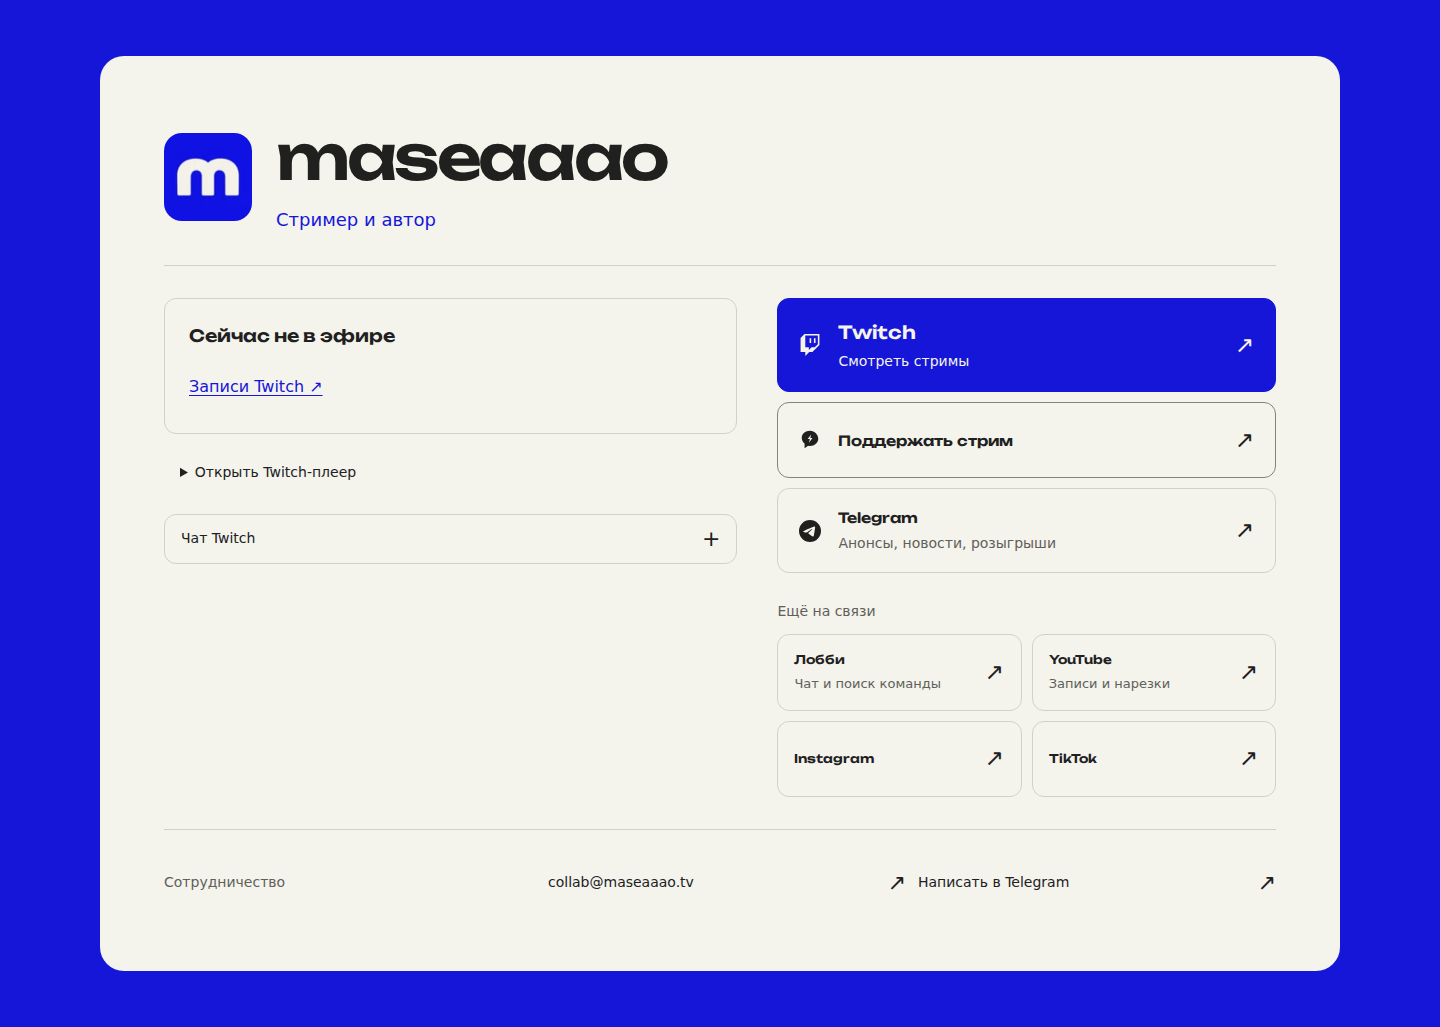
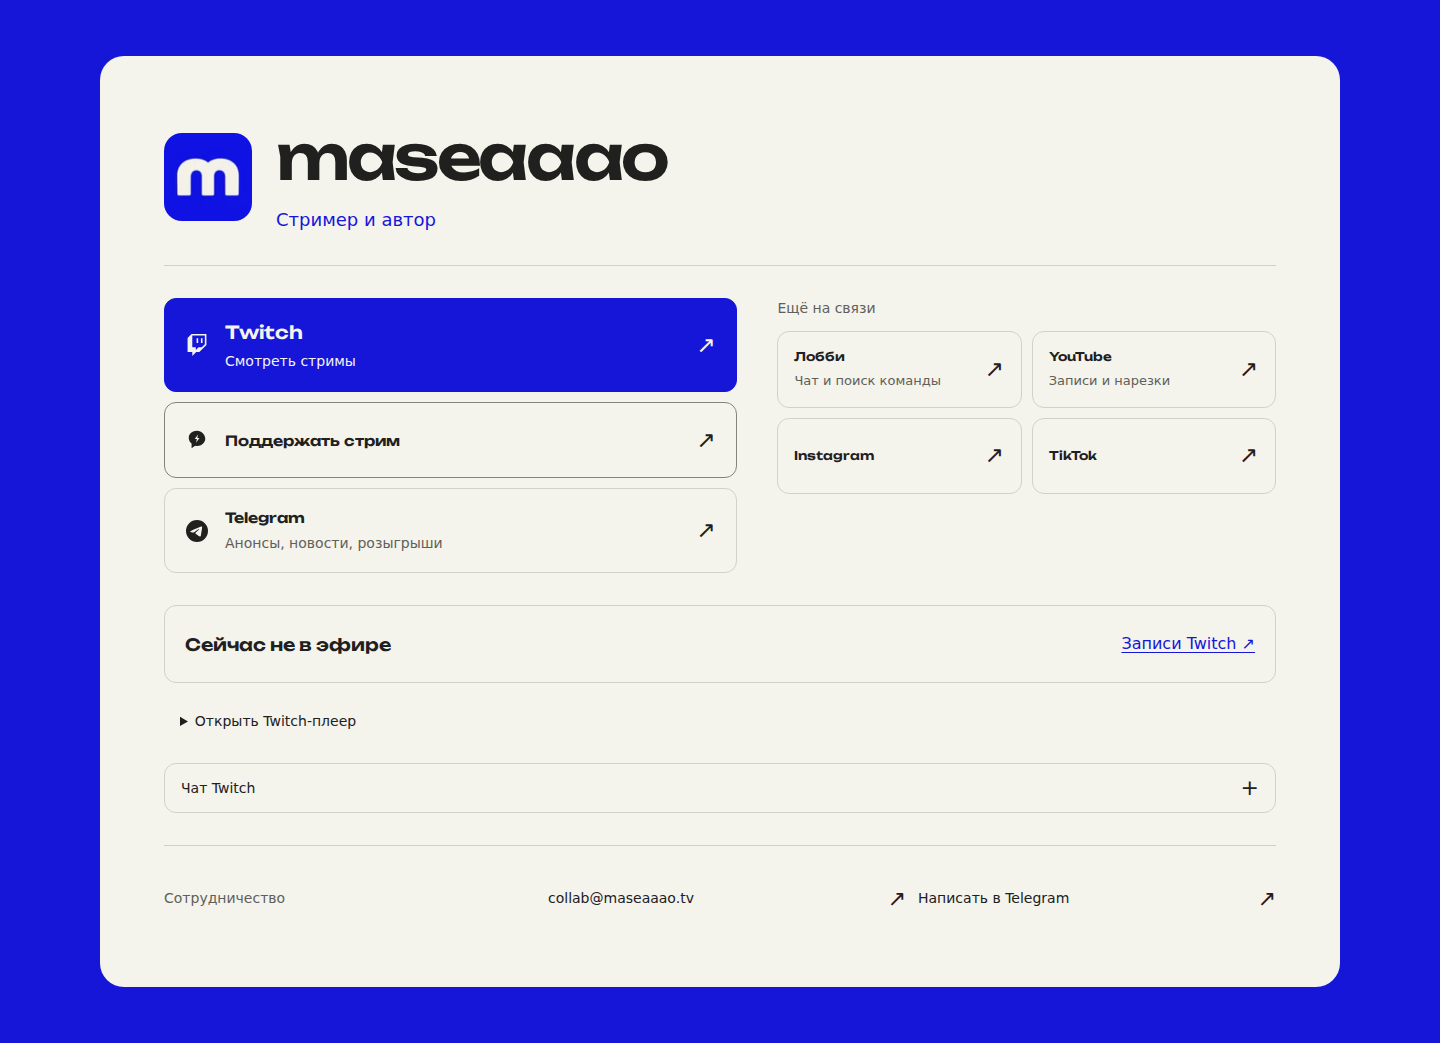
fix: complete layout review and restore browser coverage

diff --git a/dist/assets/site.css b/dist/assets/site.css
@@ -6,18 +6,19 @@ a, button, summary { touch-action: manipulation; }
 a { color: var(--accent); text-underline-offset: .2em; }
 a:focus-visible, button:focus-visible, summary:focus-visible, [tabindex="-1"]:focus-visible { outline: 3px solid var(--accent); outline-offset: 4px; }
 .page { min-height: 100svh; padding: 56px 32px; display: grid; place-items: center; }
-.shell { width: min(1240px, 100%); min-width: 0; padding: clamp(24px, 4.5vw, 64px); border-radius: 24px; background: var(--surface); display: grid; grid-template-columns: minmax(0, 1.15fr) minmax(0, 1fr); grid-template-areas: "identity identity" "stream actions" "collab collab"; gap: 32px 40px; align-items: start; }
+.shell { width: min(1240px, 100%); min-width: 0; padding: clamp(24px, 4.5vw, 64px); border-radius: 24px; background: var(--surface); display: grid; grid-template-columns: minmax(0, 1fr); grid-template-areas: "identity" "actions" "stream" "collab"; gap: 32px 40px; align-items: start; }
 .identity { grid-area: identity; padding-bottom: 32px; border-bottom: 1px solid var(--line); }
 .identity__top { display: flex; align-items: center; gap: 24px; }
-.avatar-shell { flex: none; }
+.avatar-shell { position: relative; flex: none; }
 .avatar-frame { width: 88px; height: 88px; border-radius: 18px; background: #111113; overflow: hidden; }
 .avatar, .avatar-fallback { display: block; width: 100%; height: 100%; object-fit: cover; }
 .avatar-fallback { display: grid; place-items: center; color: var(--surface); font: 600 40px var(--font-display); }
 .identity__copy { min-width: 0; }
 .identity h1 { margin: 0; font-size: clamp(30px, 4.7vw, 62px); line-height: 1.2; letter-spacing: -.055em; overflow-wrap: anywhere; }
 .identity__description { margin: 12px 0 0; color: var(--accent); font-size: 18px; }
+.profile-meta { position: absolute; bottom: -8px; left: 50%; transform: translateX(-50%); }
 .profile-meta:has([hidden]), .profile-meta:empty { display: none; }
-.live-badge { display: inline-flex; align-items: center; gap: 8px; margin-bottom: 12px; color: var(--hud-success); font: 600 11px var(--font-display); }
+.live-badge { display: inline-flex; align-items: center; gap: 5px; padding: 3px 6px; border: 1px solid var(--hud-success); border-radius: 6px; color: var(--hud-success); background: var(--surface); font: 600 11px/1.5 var(--font-display); }
 .live-badge__dot { width: 7px; height: 7px; border-radius: 50%; background: currentColor; }
 .stream-layout, .stream-content { display: grid; min-width: 0; gap: 16px; }
 .stream-content { container-type: inline-size; container-name: twitch-content; }
@@ -34,16 +35,17 @@ a:focus-visible, button:focus-visible, summary:focus-visible, [tabindex="-1"]:fo
 .stream-chat summary:focus-visible { outline-offset: -4px; }
 .stream-chat iframe { display: block; width: 100%; height: 420px; border: 0; }
 .stream-chat iframe:not([src]) { display: none; }
-.stream-offline { padding: 24px; border: 1px solid var(--line); border-radius: 12px; }
+.stream-offline { display: flex; flex-wrap: wrap; align-items: center; justify-content: space-between; gap: 8px 24px; padding: 16px 20px; border: 1px solid var(--line); border-radius: 12px; }
 .stream-offline__title { margin: 0; font: 600 17px/1.5 var(--font-display); }
-.stream-offline__links { display: flex; margin-top: 16px; }
+.stream-offline__links { display: flex; margin: 0; }
 .stream-offline a { display: inline-flex; min-height: 44px; align-items: center; }
 .stream-mobile { display: none; }
 .stream-fallback { margin: 0; color: var(--dim); font-size: 14px; }
 .stream-chat .stream-fallback { padding: 8px 16px 16px; }
 .stream-fallback a { display: inline-flex; align-items: center; min-height: 44px; }
-.stream-layout { grid-area: stream; }
-.actions { grid-area: actions; display: grid; min-width: 0; gap: 28px; }
+.stream-layout { grid-area: stream; grid-template-columns: minmax(0, 1.15fr) minmax(0, 1fr); align-items: start; }
+.stream-layout:is([data-state="offline"], [data-state="error"]) { grid-template-columns: minmax(0, 1fr); }
+.actions { grid-area: actions; display: grid; grid-template-columns: minmax(0, 1.15fr) minmax(0, 1fr); min-width: 0; gap: 28px 40px; align-items: start; }
 .section { min-width: 0; display: grid; gap: 12px; }
 .section-label, .collab__label { margin: 0; color: var(--dim); font: 14px/1.5 var(--font-body); }
 .tiles { display: grid; gap: 10px; }
@@ -93,7 +95,7 @@ a:focus-visible, button:focus-visible, summary:focus-visible, [tabindex="-1"]:fo
 .checker iframe { width: 100%; aspect-ratio: 16 / 9; display: block; border: 0; background: #20201e; }
 .checker.is-tv-mode { height: 100dvh; min-height: 0; padding: 8px; overflow: hidden; }
 .checker.is-tv-mode header, .checker.is-tv-mode .note { display: none; }
-.checker.is-tv-mode .grid { height: calc(100dvh - 16px); grid-template-columns: repeat(2, minmax(0, 1fr)); grid-template-rows: minmax(0, 1.12fr) minmax(0, .88fr); gap: 8px; }
+.checker.is-tv-mode .grid { height: calc(100dvh - 16px); grid-template-columns: minmax(0, 1fr); grid-template-rows: repeat(2, minmax(0, 1fr)); gap: 8px; }
 .checker.is-tv-mode .card { min-height: 0; display: grid; grid-template-rows: auto minmax(0, 1fr); }
 .checker.is-tv-mode .card[data-platform="youtube"] { grid-column: 1 / -1; }
 .checker.is-tv-mode .card-header { padding: 6px 8px; }
@@ -115,10 +117,8 @@ a:focus-visible, button:focus-visible, summary:focus-visible, [tabindex="-1"]:fo
 .skip-links a { position: fixed; top: 12px; left: 12px; z-index: 10; transform: translateY(-200%); padding: 12px 16px; border: 2px solid var(--accent); border-radius: 8px; background: var(--surface); }
 .skip-links a:focus { transform: none; }
 #platform-links, #contacts { scroll-margin-top: 24px; }
-@media (max-width: 1000px) { .shell { gap: 28px; padding: 32px; grid-template-columns: minmax(0, 1fr) minmax(0, 1fr); } .collab { grid-template-columns: 1fr; gap: 8px; } }
-@media (max-width: 1000px) { .page { padding: 24px 16px; } .shell { grid-template-columns: 1fr; grid-template-areas: "identity" "actions" "stream" "collab"; } .identity, .collab { grid-column: auto; } .identity { padding-bottom: 24px; } .tiles--primary { grid-template-columns: repeat(2, minmax(0, 1fr)); } .tile--wide { grid-column: 1 / -1; } .tiles--primary .tile { padding: 16px; gap: 12px; } }
+@media (max-width: 1000px) { .page { padding: 24px 16px; } .shell { gap: 28px; padding: 32px; } .actions, .stream-layout { grid-template-columns: minmax(0, 1fr); } .collab { grid-template-columns: 1fr; gap: 8px; } .identity { padding-bottom: 24px; } .tiles--primary { grid-template-columns: repeat(2, minmax(0, 1fr)); } .tile--wide { grid-column: 1 / -1; } .tiles--primary .tile { padding: 16px; gap: 12px; } }
 @media (max-width: 540px) { .page { padding: 12px; } .shell { padding: 24px 20px; border-radius: 18px; gap: 24px; } .identity__top { gap: 16px; } .avatar-frame { width: 56px; height: 56px; border-radius: 12px; } .identity h1 { font-size: clamp(23px, 6.6vw, 34px); letter-spacing: -.06em; } .identity__description { margin-top: 8px; font-size: 15px; } .tiles--primary { grid-template-columns: 1fr; } .tile--wide { grid-column: auto; } .tile { min-height: 72px; padding: 16px; } .tile__title { font-size: 13px; } .collab__links { grid-template-columns: 1fr; gap: 0; } .checker { padding: 20px 12px; } .checker .card-header { padding: 16px; } .docs { padding: 28px 20px; } }
-@media (max-width: 900px) { .checker.is-tv-mode .grid { grid-template-columns: 1fr; grid-template-rows: repeat(3, minmax(0, 1fr)); } .checker.is-tv-mode .card[data-platform="youtube"] { grid-column: auto; } }
 @container twitch-content (width < 402px) { .stream-player { display: none; } .stream-mobile { display: block; } .stream-content > .stream-fallback { display: none; } }
 @media (prefers-reduced-motion: reduce) { *, *::before, *::after { transition: none !important; animation: none !important; scroll-behavior: auto !important; } .tile:active { transform: none; } }
 @media (forced-colors: active) { .tile, .collab__link, .stream-chat { border: 1px solid ButtonText; } a:focus-visible, summary:focus-visible { outline-color: Highlight; } }

diff --git a/dist/index.html b/dist/index.html
@@ -115,16 +115,15 @@
                   " />
                 <div class="avatar-fallback" hidden aria-hidden="true">m</div>
               </div>
-            </div>
-
-            <div class="identity__copy">
               <div class="profile-meta">
                 <span class="live-badge" title="Сейчас в эфире" data-live-badge hidden>
                   <span class="live-badge__dot" aria-hidden="true"></span>
                   LIVE
                 </span>
               </div>
+            </div>
 
+            <div class="identity__copy">
               <h1 id="profile-name">maseaaao</h1>
               <p class="identity__description">Стример и автор</p>
             </div>

diff --git a/docs/screenshots/README.md b/docs/screenshots/README.md
@@ -1,5 +1,27 @@
 # Interface previews
 
-Captured at 1440 px and 390 px in Chromium, with reduced motion.
-Twitch networking is isolated: these are UI previews, not evidence of a live broadcast.
-The avatar is intentionally unchanged pending a separate owner selection.
+Captured from the current source with Chromium 153 at 1440 px (desktop) and
+390 px (mobile), with reduced motion and the current blue m avatar.
+
+- `landing-desktop.png`: isolated offline state, chat manually collapsed.
+- `landing-mobile.png`: cold narrow-page load; the embedded player is deliberately
+  replaced by the existing external Twitch action below the minimum player width.
+
+Twitch SDK and iframe networking are isolated. These are interface previews,
+not evidence of an actual live broadcast or a working external media connection.
+
+Run all site/OBS checks with `npm test`. Set `CHROME_BIN` or `CHROME_PATH` to an
+installed Chromium executable, or install the browser expected by Playwright.
+The suite includes Checker actions/TV layout, docs/check responsive and enlarged
+text checks, banner/panel clipping, landing states/keyboard/contrast and OBS
+transparency/geometry/QR/pixel parity.
+
+To capture the landing matrix in a new directory, run:
+
+```sh
+CHROME_BIN=/path/to/chromium LANDING_AUDIT_OUT=/new/evidence-directory node --test --test-name-pattern='capture real Chromium' tests/landing-sync.test.mjs
+```
+
+The desktop preview comes from `offline-desktop-chat-closed.png`; the mobile
+preview comes from `cold-mobile-390.png`. The capture also writes measurements
+and isolated network conditions to `browser-evidence.json`.
